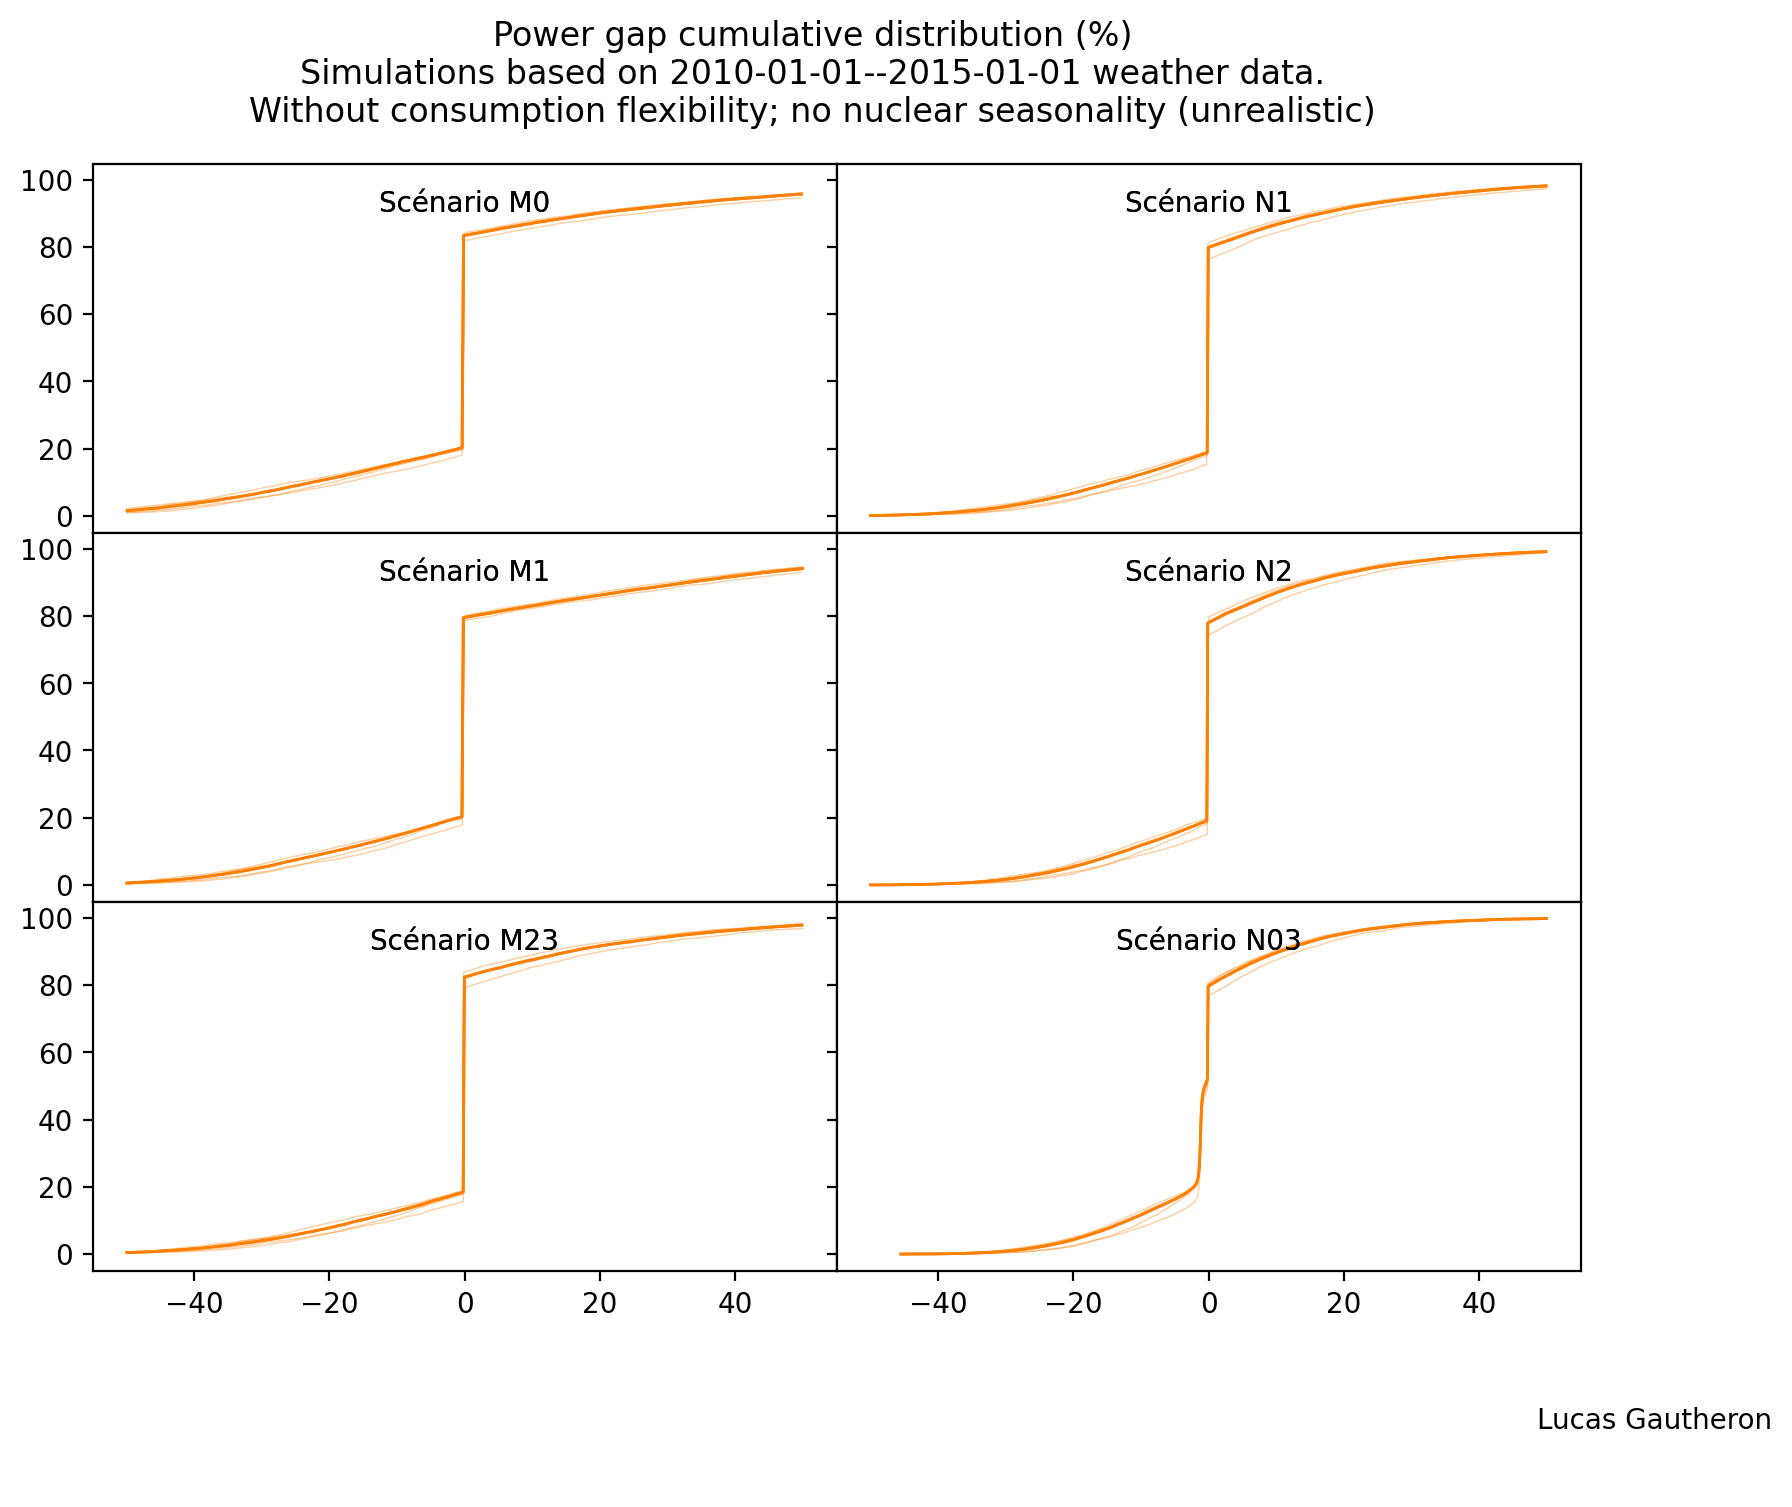
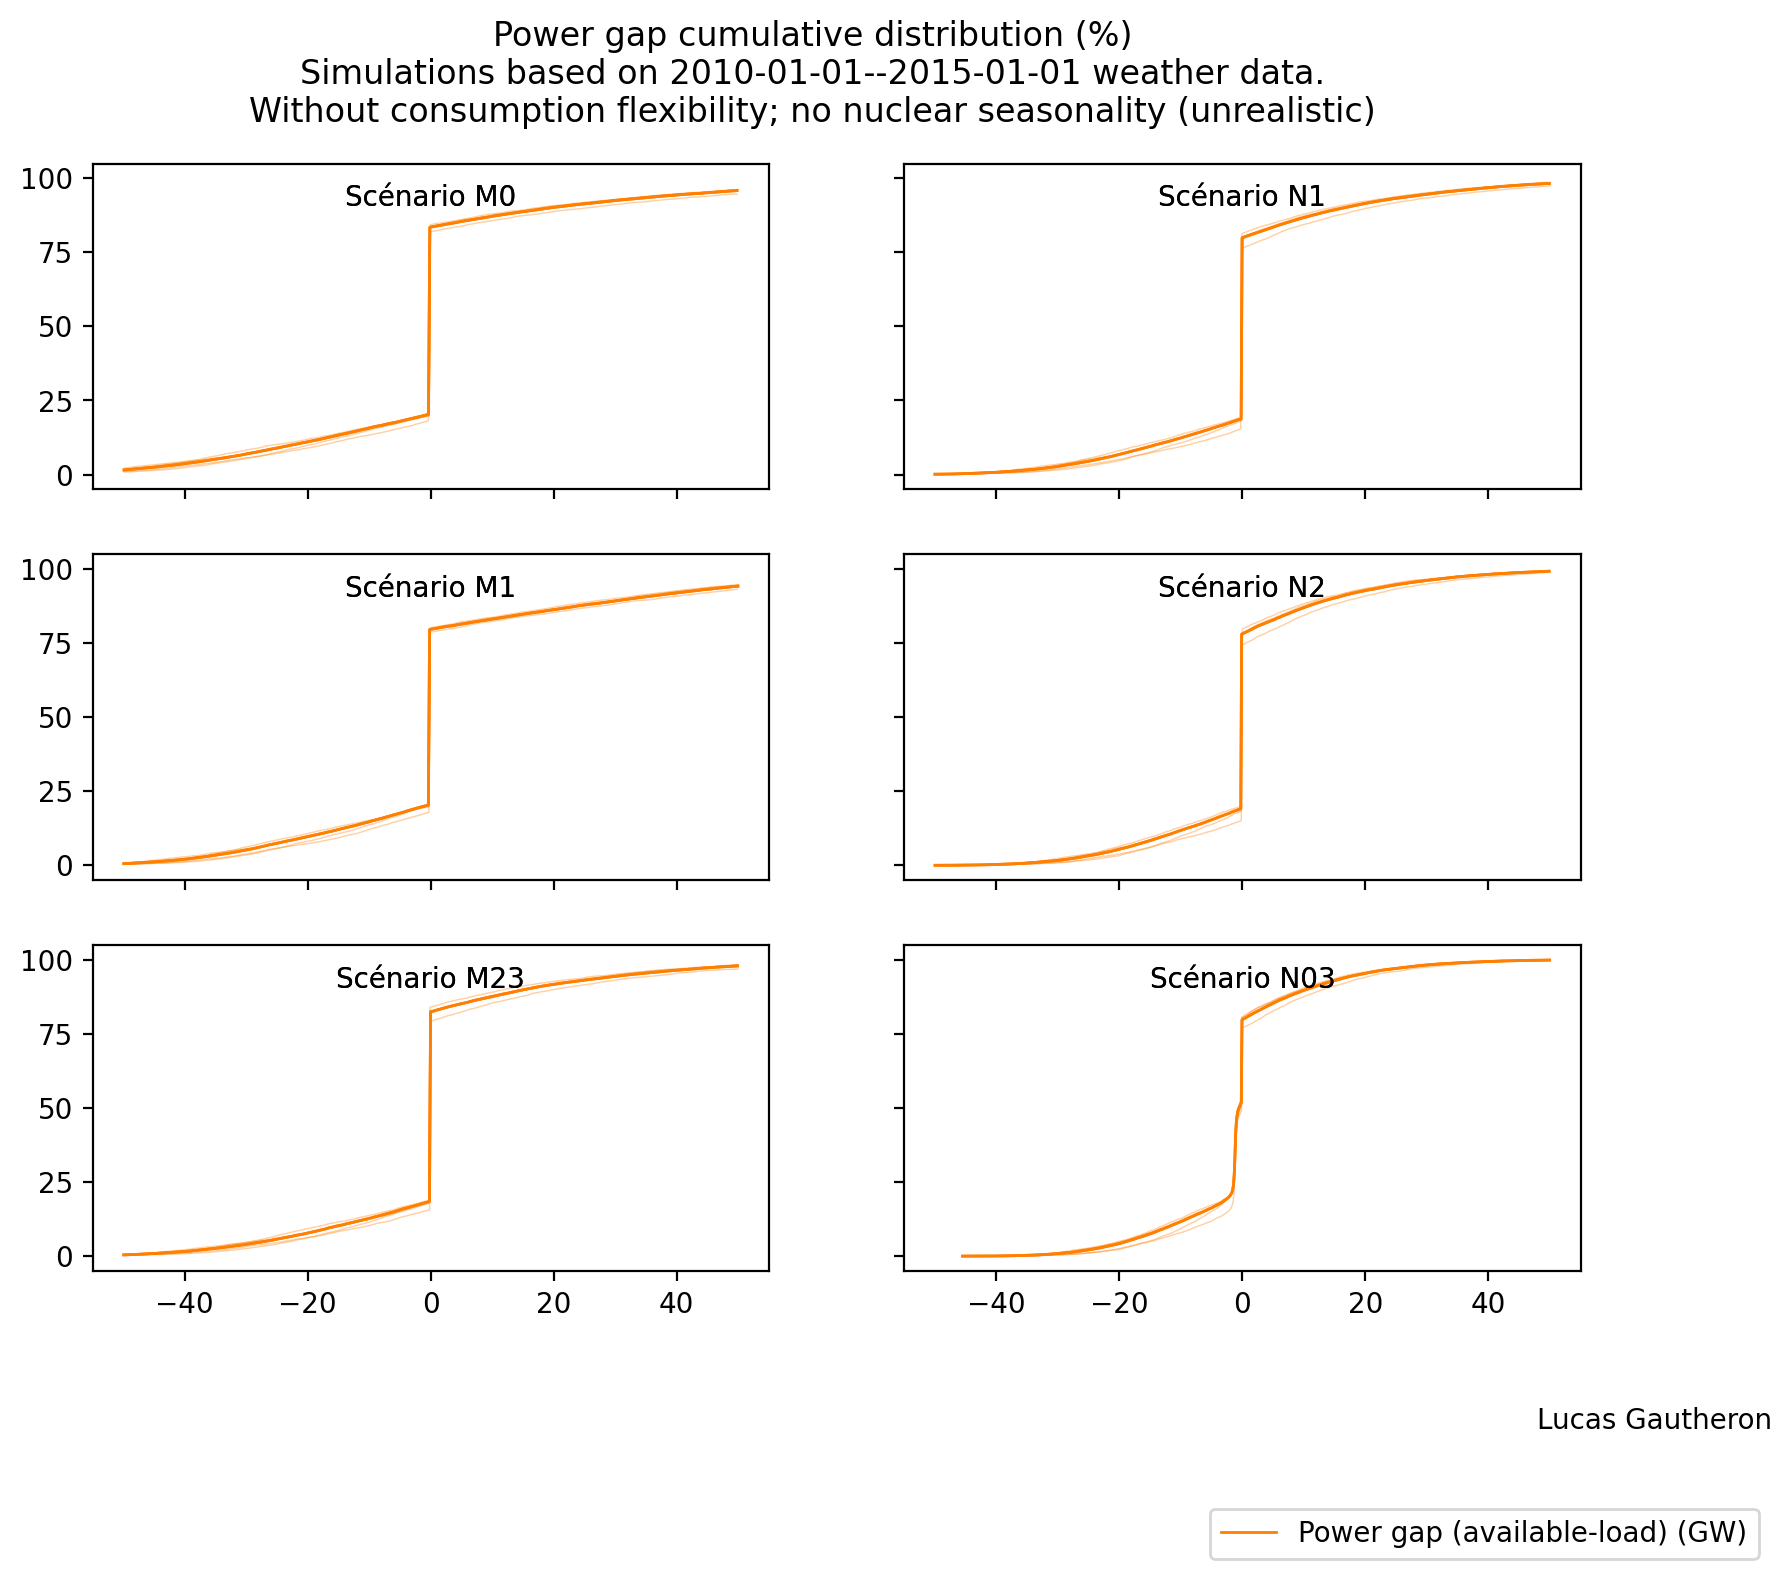
thermo sensitivity plots

diff --git a/run.py b/run.py
@@ -45,8 +45,6 @@ potential = potential.loc[(slice(f"{begin} 00:00:00", f"{end} 00:00:00"), "FR"),
 
 # intermittent sources potential
 p = potential[["onshore", "offshore", "solar"]].to_xarray().to_array()
-p = np.insert(p, 3, 0.7, axis=0)  # nuclear power-like
-
 times = potential.index.get_level_values(0)
 
 n_scenarios = len(scenarios)
@@ -73,6 +71,12 @@ fig_gap_distribution, axes_gap_distribution = plt.subplots(
 )
 fig_gap_distribution.set_figwidth(w * 1.5)
 fig_gap_distribution.set_figheight(h * 1.5)
+
+fig_thermo, axes_thermo = plt.subplots(
+    nrows=int(np.ceil(n_scenarios / 2)), ncols=2, sharex="col", sharey=True
+)
+fig_thermo.set_figwidth(w * 1.5)
+fig_thermo.set_figheight(h * 1.5)
 
 months = ["Février", "Juin"]
 
@@ -113,8 +117,16 @@ for scenario in scenarios:
 
     potential["load"] = load
     potential["production"] = production
+    potential["intermittent"] = scenario_model.intermittent_model.power()
     potential["available"] = production - np.diff(storage.sum(axis=0), append=0)
     potential["gap"] = gap
+
+    if scenario_model.consumption_model.__class__.__name__ == "ThermoModel":
+        potential[
+            "temperature"
+        ] = scenario_model.consumption_model.observed_temperatures(
+            pd.to_datetime(times, utc=True), missing_method="nearest"
+        ).values
 
     for i in range(3):
         potential[f"storage_{i}"] = np.diff(
@@ -271,6 +283,53 @@ for scenario in scenarios:
 
         ax.text(0.5, 0.87, f"Scénario {scenario}", ha="center", transform=ax.transAxes)
 
+        if scenario_model.consumption_model.__class__.__name__ == "ThermoModel":
+            ax = (
+                axes_thermo[row % div, row // div]
+                if axes_thermo.ndim > 1
+                else axes_thermo[row % div]
+            )
+
+            daily = (
+                potential.reset_index(level=1, drop=True)
+                .resample("1D")
+                .agg({
+                    'load': 'sum',
+                    'intermittent': 'sum',
+                    'temperature': 'mean',
+                })
+            )
+
+            cm = plt.cm.get_cmap("coolwarm")
+
+            scatter = ax.scatter(
+                daily["load"],
+                daily["intermittent"],
+                c=daily["temperature"],
+                vmin=5*(daily["temperature"].min()//5),
+                vmax=5*(daily["temperature"].max()//5+1),
+                s=1,
+                cmap=cm,
+                alpha=1,
+            )
+
+            ax.set_xlim(np.quantile(daily["load"], 0.01), np.quantile(daily["load"], 0.99))
+            ax.set_ylim(0)
+
+            xpoints = ypoints = ax.get_xlim()
+
+            ax.plot(
+                xpoints,
+                ypoints,
+                ls="dashed",
+                color="black",
+                alpha=0.5,
+                lw=1,
+            )
+            ax.text(
+                0.5, 0.87, f"Scénario {scenario}", ha="center", transform=ax.transAxes
+            )
+
     row += 1
 
 for axs in [axes, axes_dispatch, axes_storage]:
@@ -340,11 +399,18 @@ fig_gap_distribution.legend(
     loc="lower right",
     bbox_to_anchor=(1, -0.1),
     ncol=1,
-    bbox_transform=fig_dispatch.transFigure,
+    bbox_transform=fig_gap_distribution.transFigure,
 )
 fig_gap_distribution.text(1, 0, "Lucas Gautheron", ha="right")
 fig_gap_distribution.savefig(
     plot_path("gap_distribution"), bbox_inches="tight", dpi=200
 )
+
+fig_thermo.suptitle(
+    f"Daily consumption (in GWh) vs intermittent production (in GWh)\nSimulations based on {begin}--{end} weather data."
+)
+fig.colorbar(scatter, ax=axes_thermo.ravel().tolist())
+fig_thermo.text(0.8, 0, "Lucas Gautheron", ha="right")
+fig_thermo.savefig(plot_path("thermo_sensitivity"), bbox_inches="tight", dpi=200)
 
 plt.show()

diff --git a/mix_simul/scenarios.py b/mix_simul/scenarios.py
@@ -35,7 +35,15 @@ class Scenario:
         self.multistorage = multistorage
         self.flexibility_power = flexibility_power
         self.flexibility_time = flexibility_time
+
         self.consumption_model_name = consumption_model
+        self.consumption_model = None
+
+        self.intermittent_model = None
+        self.constant_model = None
+        self.storage_model = None
+        self.flexibility_model = None
+        self.dispatchable_model = None
         pass
 
     def build_consumption_model(self):
@@ -47,7 +55,7 @@ class Scenario:
             raise NotImplementedError(
                 f"consumption model {self.consumption_model_name} not supported"
             )
-        
+
         self.consumption_model = mdl(yearly_total=self.yearly_total)
 
     def run(self, times, intermittent_load_factors, consumption_model=None):
@@ -60,13 +68,16 @@ class Scenario:
         load = self.consumption_model.get(times)
 
         # intermittent sources (or sources with fixed load factors)
-        intermittent_array = IntermittentArray(
+        self.intermittent_model = IntermittentArray(
             intermittent_load_factors, np.transpose([self.sources["intermittent"]])
         )
-        power = intermittent_array.power()
+        power = self.intermittent_model.power()
+
+        self.constant_model = ConstantSource(self.sources["constant"] * 0.7, len(load))
+        power += self.constant_model.power()
 
         # adjust power to load with storage
-        storage_model = MultiStorageModel(
+        self.storage_model = MultiStorageModel(
             np.array(self.multistorage["capacity"])
             * np.array(self.multistorage["power"]),
             self.multistorage["power"],
@@ -74,20 +85,20 @@ class Scenario:
             self.multistorage["efficiency"],
         )
 
-        storage, storage_impact = storage_model.run(power - load)
+        storage, storage_impact = self.storage_model.run(power - load)
         gap = load - power - storage_impact.sum(axis=0)
 
         if self.flexibility_power > 0:
-            flexibility_model = ConsumptionFlexibilityModel(
+            self.flexibility_model = ConsumptionFlexibilityModel(
                 self.flexibility_power, self.flexibility_time
             )
-            load = flexibility_model.run(load, power + storage_impact.sum(axis=0))
+            load = self.flexibility_model.run(load, power + storage_impact.sum(axis=0))
 
         gap = load - power - storage_impact.sum(axis=0)
 
         # further adjust power to load with dispatchable power sources
-        dispatchable_model = DispatchableArray(self.sources["dispatchable"])
-        dp = dispatchable_model.power(gap)
+        self.dispatchable_model = DispatchableArray(self.sources["dispatchable"])
+        dp = self.dispatchable_model.power(gap)
 
         gap -= dp.sum(axis=0)
         S = np.maximum(gap, 0).mean()

diff --git a/mix_simul/production.py b/mix_simul/production.py
@@ -44,6 +44,15 @@ class IntermittentArray(PowerSupply):
         return np.einsum("ijk,ik", self.load_factors, self.capacity_per_region)
 
 
+class ConstantSource(PowerSupply):
+    def __init__(self, constant_power: float, T: int):
+        self.constant_power = constant_power
+        self.T = T
+
+    def power(self) -> np.ndarray:
+        return np.repeat(self.constant_power, self.T)
+
+
 class DispatchableArray(PowerSupply):
     def __init__(self, dispatchable: np.ndarray):
         """Dispatchable power supply.
